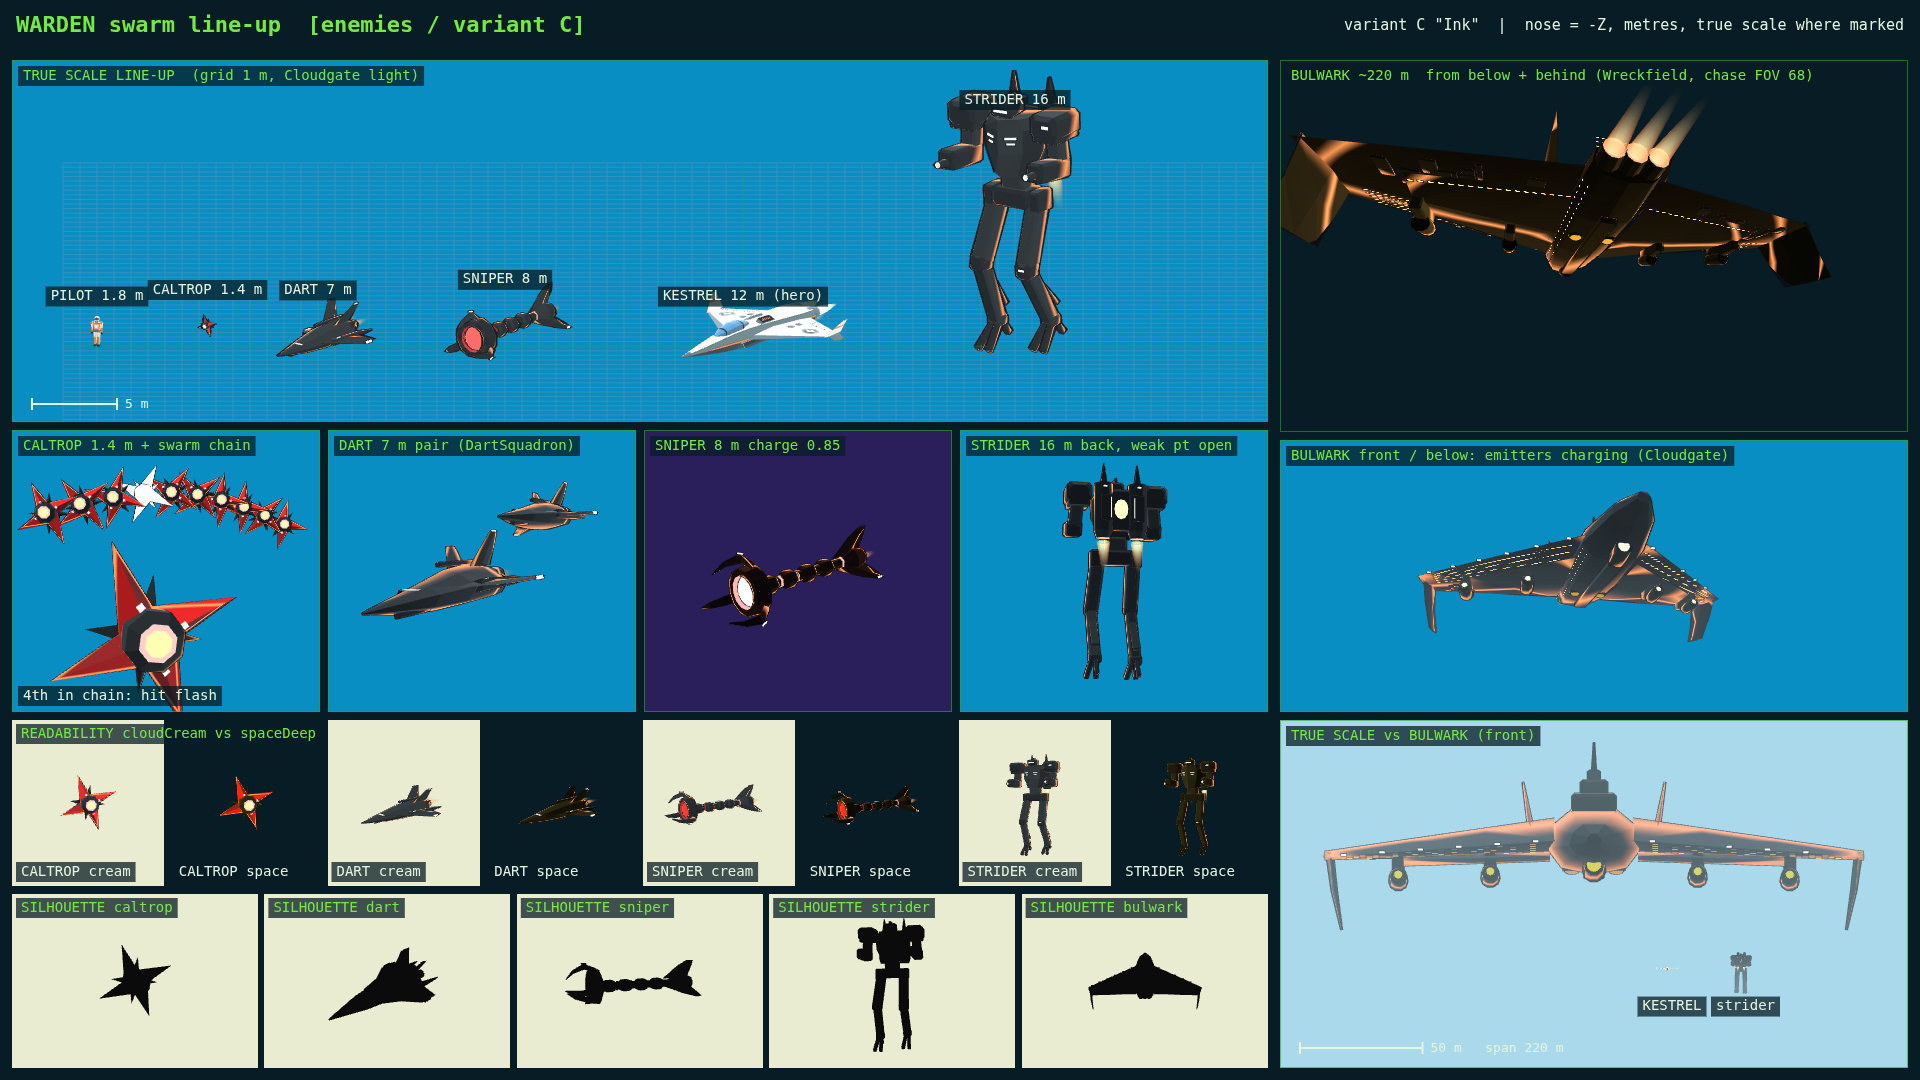
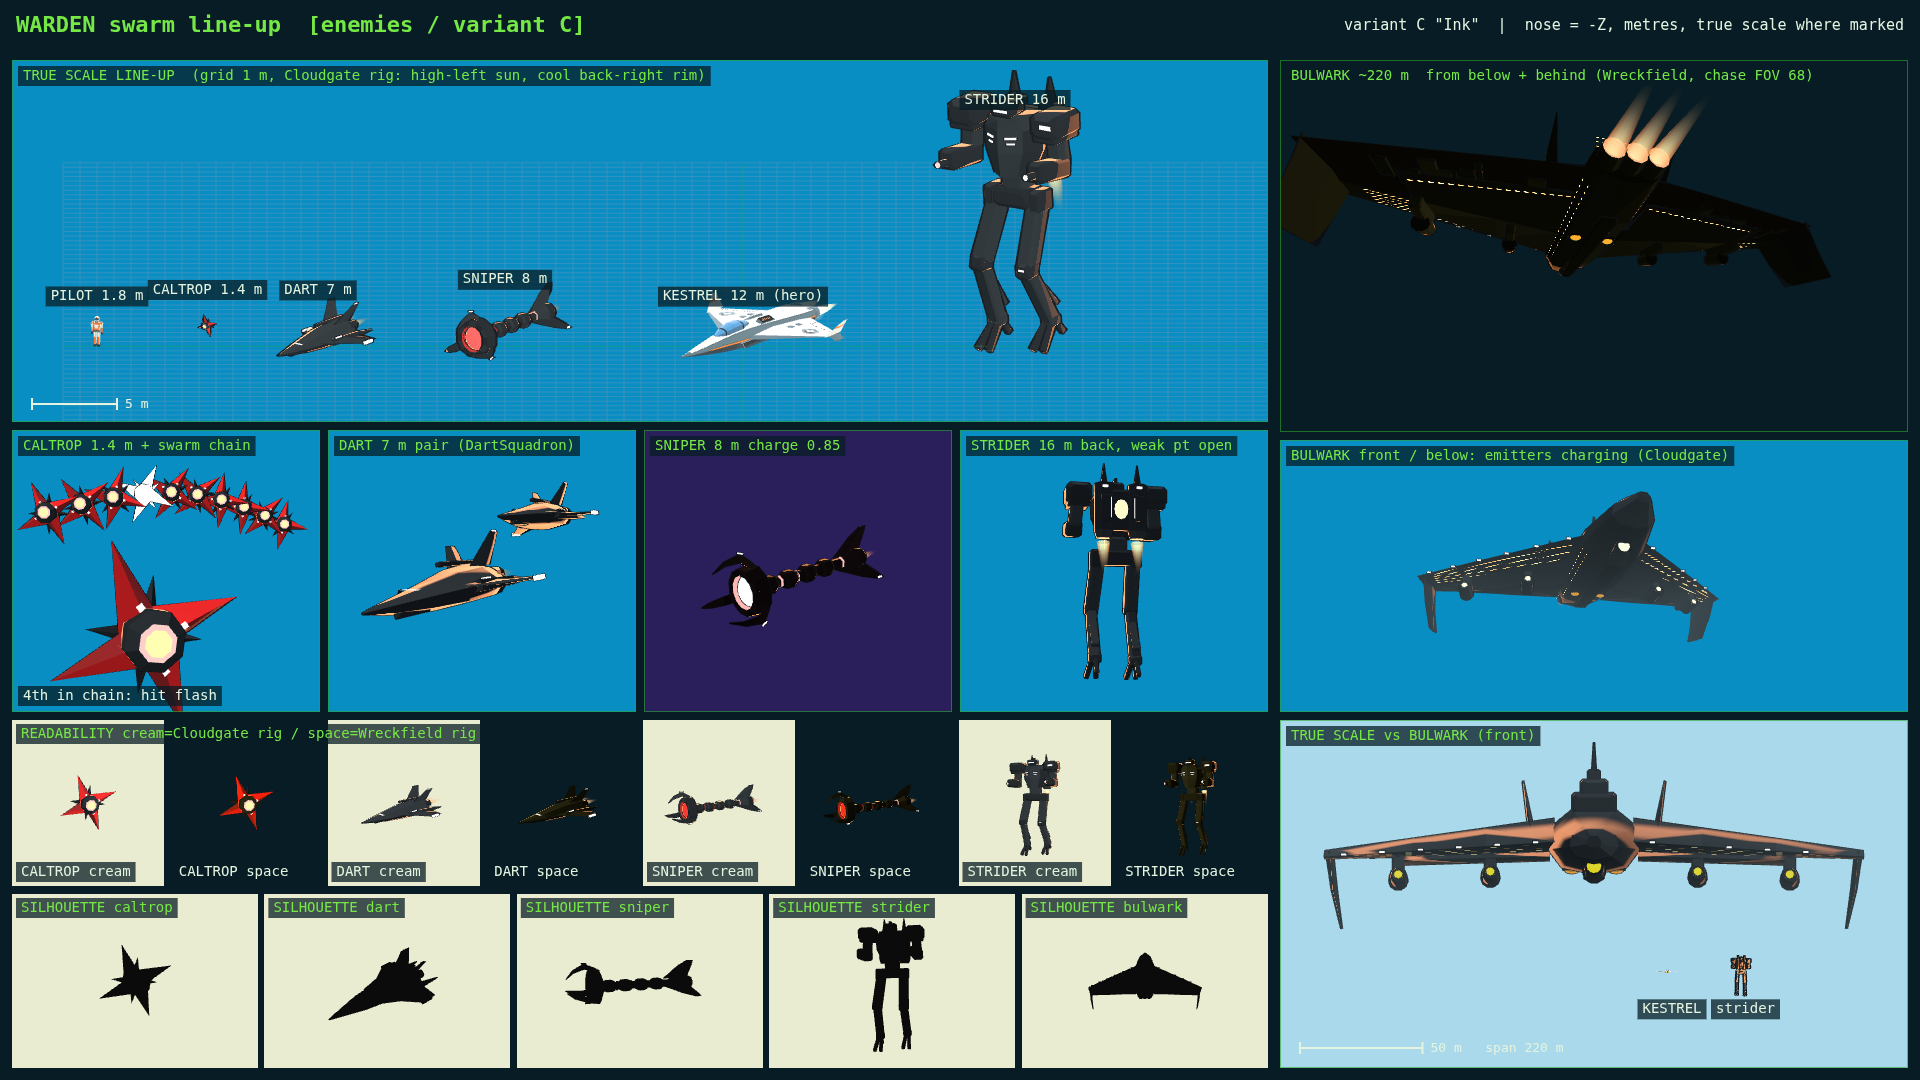
CONTRAIL consistency pass: dark hull mass (D-2), clear planet (T010), adaptive HUD scrim (D-5)
Claude-Session: https://claude.ai/code/session_01Sb5vk8dPPmr8ekyxShV53k

diff --git a/contrail/src/gen/entities/enemies/strider.ts b/contrail/src/gen/entities/enemies/strider.ts
@@ -100,7 +100,7 @@ export function striderGeometry(p: StriderParams, seed: number) {
   g.mirrorX(() => {
     g.box(2.95 * sw, 4.85, 0.0, 1.9, 1.45, 2.7, panelHi, 0.35, body);
     g.box(2.95 * sw, 4.1, 0.0, 1.6, 0.4, 2.3, body, 0.3);
-    if (rng.next() < 0.5 + L.markerDensity * 0.5) g.box(3.2 * sw, 4.95, -1.37, 0.5, 0.18, 0.06, red());
+    if (rng.next() < 0.5 + L.markerDensity * 0.5) g.box(3.2 * sw, 4.95, -1.37, 0.8, 0.26, 0.06, red(1.8));
   });
   // hip armour
   g.mirrorX(() => g.box(1.6, -0.1, 0.1, 0.7, 1.3, 1.5, panel, 0.3, body));
@@ -112,7 +112,7 @@ export function striderGeometry(p: StriderParams, seed: number) {
     g.cylinder(8, 0.55 * jp, 0.72 * jp, 1.25, 1.8, panel, thr, undefined, Math.PI / 8);
     g.cylinder(4, 0.3, 0.02, 5.3, 6.9, body, undefined, undefined, Math.PI / 4); // antenna fin
     g.pop();
-    if (rng.next() < L.markerDensity) g.box(1.28, 5.0, 1.95 + 0.73 * jp, 0.3, 0.12, 0.05, red());
+    if (rng.next() < L.markerDensity) g.box(1.28, 5.0, 1.95 + 0.73 * jp, 0.45, 0.2, 0.05, red(1.8));
   });
   g.box(0, 3.4, 1.75, 1.7, 3.0, 1.1, body, 0.3);
   g.sphere([0, 3.4, 2.3], 0.55, 0.75, 0.45, 12, 6, core);

diff --git a/contrail/src/lab/boards/enemies.ts b/contrail/src/lab/boards/enemies.ts
@@ -156,7 +156,7 @@ export default async function board(ctx: LabContext) {
       labels.push([name, new THREE.Vector3((b2.min.x + b2.max.x) / 2, b2.max.y, (b2.min.z + b2.max.z) / 2)]);
     }
     render('cloudgate', scene, cam, L0, palette.skyDay);
-    header('TRUE SCALE LINE-UP  (grid 1 m, Cloudgate light)', L0);
+    header('TRUE SCALE LINE-UP  (grid 1 m, Cloudgate rig: high-left sun, cool back-right rim)', L0);
     for (const [name, p] of labels) {
       const v = p.clone().project(cam);
       const sx = L0.x + ((v.x + 1) / 2) * L0.w, sy = L0.y + ((1 - v.y) / 2) * L0.h;
@@ -261,7 +261,7 @@ export default async function board(ctx: LabContext) {
       ctx.label(`${name} ${bg}`, r.x + 4, r.y + r.h - 24);
     });
   });
-  ctx.label('READABILITY cloudCream vs spaceDeep', 16, rY + 4, palette.hudText);
+  ctx.label('READABILITY cream=Cloudgate rig / space=Wreckfield rig', 16, rY + 4, palette.hudText);
 
   // =====================================================================
   // 4) SILHOUETTE ROW (flat black on cloudCream)

diff --git a/contrail/src/gen/entities/enemies/dart.ts b/contrail/src/gen/entities/enemies/dart.ts
@@ -88,9 +88,9 @@ export function dartGeometry(p: DartParams, seed: number): DartGeo {
     g.loft([root(0.8, -0.5, 2.9, 0.12, 0.14), root(half * 0.62, 1.0, 3.1, 0.12 - droop * 0.55, 0.09), root(half, 2.1, 3.25, 0.12 - droop, 0.05)],
       (_r, s) => (s === 0 ? panel : s === 1 ? body : body), undefined, body);
     // wingtip marker light
-    g.box(half + 0.02, 0.12 - droop, 2.55, 0.1, 0.12, 0.5, marker);
+    g.box(half + 0.02, 0.12 - droop, 2.5, 0.16, 0.16, 0.8, marker);
     // optional flank markers
-    if (rng.next() < L.markerDensity) g.box(0.99, 0.2, 1.2, 0.05, 0.08, 0.35, marker);
+    if (rng.next() < L.markerDensity) g.box(0.99, 0.2, 1.2, 0.07, 0.14, 0.6, marker);
   });
 
   // --- V-fins, canted outward

diff --git a/contrail/src/gen/entities/enemies/variants.ts b/contrail/src/gen/entities/enemies/variants.ts
@@ -43,7 +43,7 @@ export const ENEMY_VARIANTS: Record<'A' | 'B' | 'C', EnemyVariant> = {
   ),
   B: variant(
     'Hard panel',
-    { rimStrength: 1.6, rimPower: 3.2, rimWrap: 0.55, stageRim: 0.45, panelContrast: 1.0, markerIntensity: 3.2, markerDensity: 1.0, thrusterIntensity: 2.2, seamStrength: 0.45, outline: true, outlinePx: 1.4 },
+    { rimStrength: 1.7, rimPower: 2.4, rimWrap: 0.55, stageRim: 0.45, panelContrast: 1.0, markerIntensity: 3.2, markerDensity: 1.0, thrusterIntensity: 2.2, seamStrength: 0.45, outline: true, outlinePx: 1.4 },
     { spike: 0.6, leg: 0.94, wing: 1.06 },
   ),
   C: variant(

diff --git a/contrail/src/game/hudAdapter.ts b/contrail/src/game/hudAdapter.ts
@@ -63,6 +63,7 @@ export class HudAdapter {
     s.combatText = g.combatText.map((c) => ({ text: c.text, kind: c.kind, age: c.age })) as HudState['combatText'];
     s.speed = p.boost > 0 ? 0.95 : p.braking ? 0.2 : 0.55;
     s.prompts = g.prompts.filter((pr) => pr.age < 4).map((pr) => ({ text: pr.text }));
+    s.skyLuma = g.stage.id === 'wreckfield' ? 0 : g.stage.id === 'violetTide' ? 0.3 : 1;
     s.paused = g.paused;
     s.time = time;
     return s;
